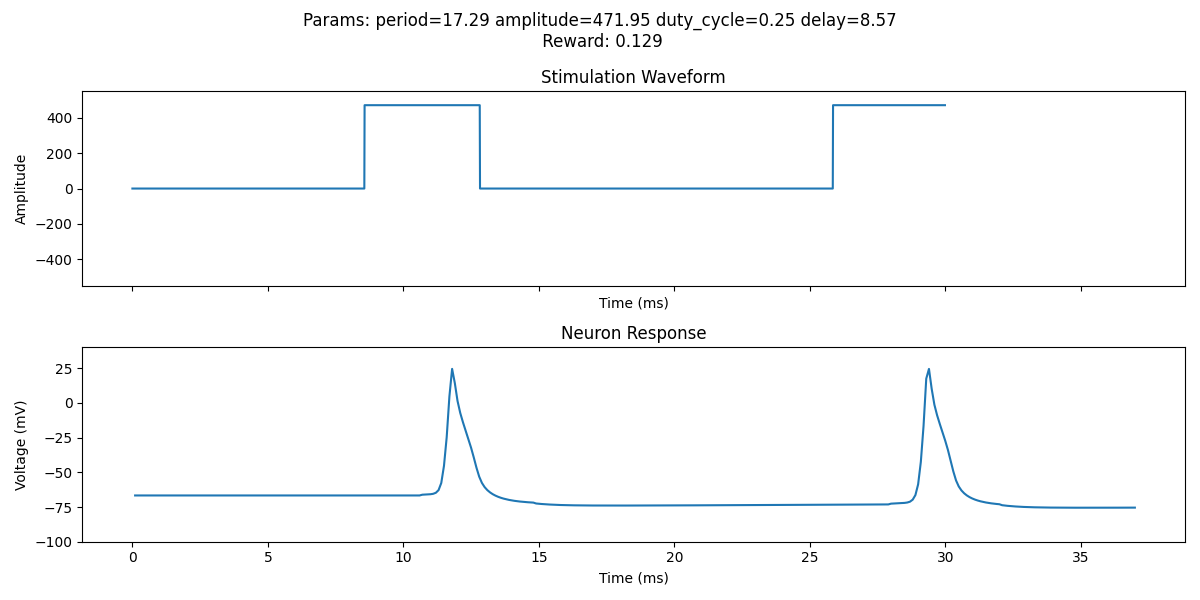
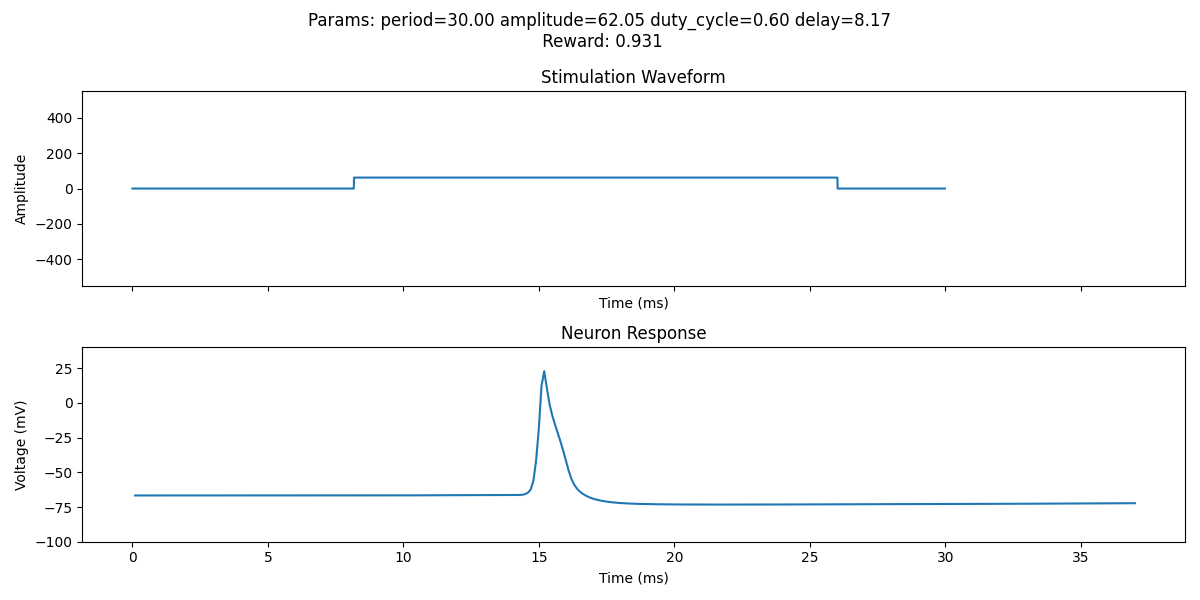
fea: small changes and new best responses

diff --git a/environment.py b/environment.py
@@ -8,10 +8,6 @@ import time
 import matplotlib.pyplot as plt
 import numpy as np
 from gymnasium import Env, spaces
-from neuron import coreneuron
-
-coreneuron.enable = True
-coreneuron.gpu = True
 
 from criterions import MinEnergy, SelectivityCriterion
 from elec_field import ICMS